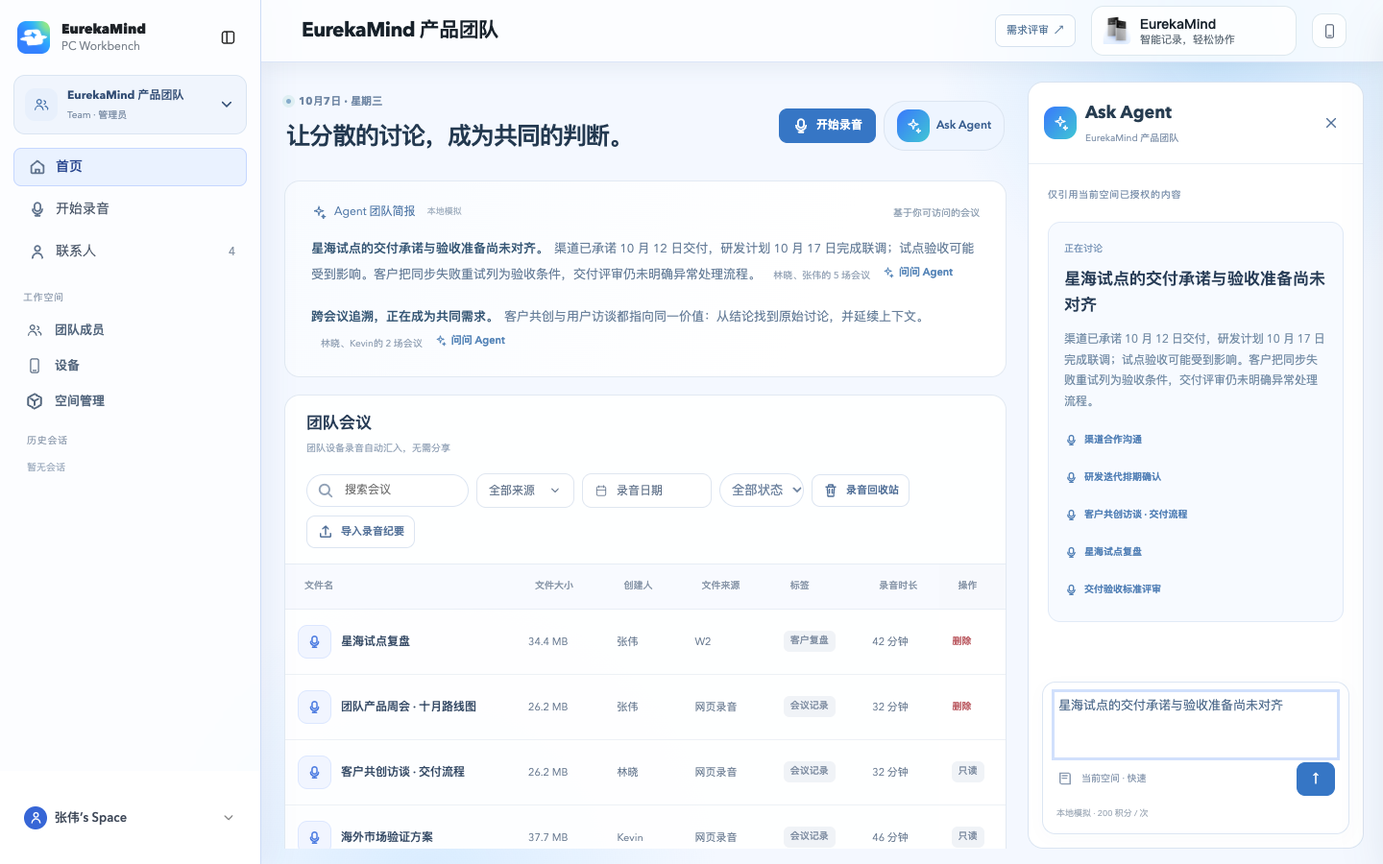
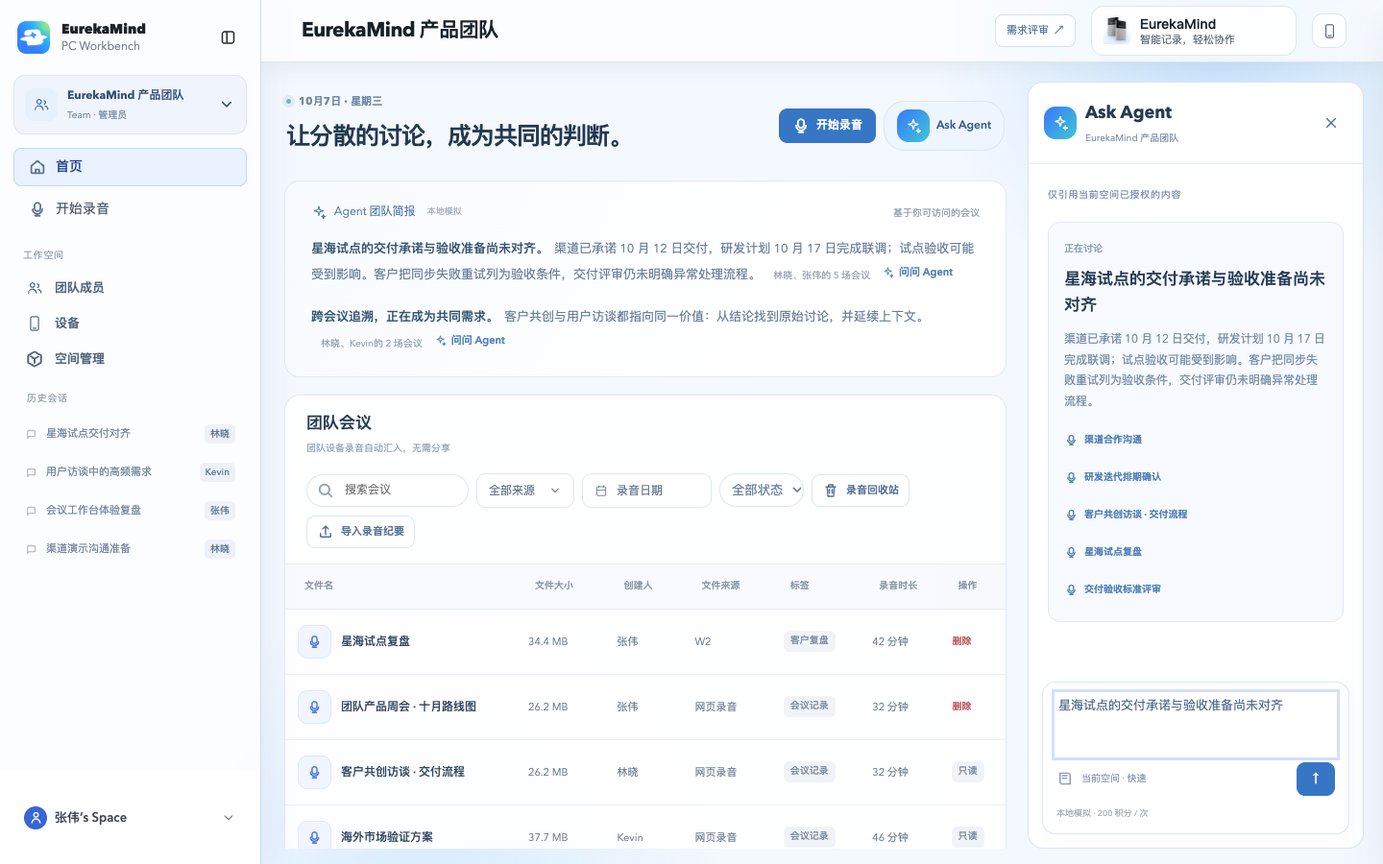
feat: add member-owned team history and remove team contacts entry

Changed region(s): [[0.0, 0.28, 0.0938, 0.4667], [0.0, 0.4978, 0.125, 0.5911], [0.0312, 0.6222, 0.0938, 0.6533]]

diff --git a/src/prototype/one-to-one-reference/assets/workspace-ui.js b/src/prototype/one-to-one-reference/assets/workspace-ui.js
@@ -37,13 +37,13 @@
   function chrome(){
     document.body.dataset.wsType=w().type;
     document.title=`EurekaMind · ${w().name}`;
+    $('[data-contacts-entry]')?.toggleAttribute('hidden',w().type==='team');
     const contactCount=$('[data-contacts-entry] .tree-count');if(contactCount)contactCount.textContent=w().type==='team'?String((w().contacts||[]).length):String(window.ContactsModel?.load('personal','personal').data.contacts.length||6);
     switcher.innerHTML=`<span class="ws-space-avatar">${w().type==='personal'?icon('user'):icon('users')}</span><span class="ws-space-copy"><strong>${esc(w().name)}</strong><small>${w().type==='personal'?'Personal · '+esc(w().plan):'Team · '+(isAdmin()?'管理员':'成员')}</small></span>${icon('chevron')}`;
     switcher.title=`切换工作空间：${w().name}`;
     nav.innerHTML=w().type==='team'?`<div class="ws-nav-label">工作空间</div>${btn('page',icon('users')+'团队成员',page==='members'?'active':'','members')}${btn('page',icon('phone')+'设备',page==='devices'?'active':'','devices')}${isAdmin()?btn('page',icon('task')+'空间管理',['billing','settings','credits','audit'].includes(page)?'active':'','billing'):''}`:'';
     let history=$('#ws-history');if(!history){history=document.createElement('div');history.id='ws-history';nav.after(history);}
-    const ids=new Set(w().type==='team'?M.visible(w(),actor).map(f=>f.id):[]);
-    history.innerHTML=w().type==='team'?`<div class="ws-nav-label">历史会话</div>${w().threads.filter(t=>t.user===actor&&!t.contactId&&(t.files||[]).every(id=>ids.has(id))).slice(0,5).map(t=>btn('history',icon('message')+esc(t.prompt),'',t.id)).join('')||'<p class="ws-muted">暂无会话</p>'}`:'';
+    history.innerHTML=w().type==='team'?`<div class="ws-nav-label">历史会话</div>${M.history(w(),actor).slice(0,8).map(t=>btn('history',`${icon('chat')}<span class="ws-history-title">${esc(t.title||t.prompt)}</span><span class="ws-history-owner">${esc(userName(t.user))}</span>`,activeHistoryId===t.id&&agentOpen?'active':'',t.id,`title="${esc(t.title||t.prompt)} · ${esc(userName(t.user))}" ${activeHistoryId===t.id&&agentOpen?'aria-current="true"':''}`)).join('')||'<p class="ws-muted">暂无会话</p>'}`:'';
     const name=$('#user-card .user-name');if(name)name.textContent=data.account.name+"‘s Space";
   }
   function closeMenu(){menu.hidden=true;switcher.setAttribute('aria-expanded','false');$('#user-card')?.setAttribute('aria-expanded','false');}
@@ -62,7 +62,7 @@
   }
   function show(next='overview'){
     if(editing&&next!==page){confirm('退出编辑？','未保存的内容会丢失。',()=>{editing=false;show(next);});return;}
-    if(next==='contacts'&&w().type==='team')return openContacts();
+    if(next==='contacts'&&w().type==='team')next='overview';
     if(next==='files'&&w().type==='team')next='overview';
     closeMenu();page=next;for(const entry of $$('#home-entry,#start-recording,[data-contacts-entry]')){const active=entry.id==='home-entry'&&next==='overview';entry.classList.toggle('active',active);if(active)entry.setAttribute('aria-current','page');else entry.removeAttribute('aria-current');}if(next!=='detail')selected=null;document.dispatchEvent(new Event('meeting-agent-leave'));$$('[data-main-view]').forEach(el=>{el.hidden=el!==root;el.setAttribute('aria-hidden',String(el!==root));});$('#page-crumb').textContent=w().type==='team'?w().name:'个人工作空间';$('.main').scrollTop=0;root.hidden=false;chrome();render();fit();
   }
@@ -124,7 +124,7 @@
   function settings(){M.govern(w(),actor);return heading('空间设置','名称、成员权限与隐私设置仅作用于当前工作空间。')+managementTabs()+`<form class="ws-surface ws-settings-form" data-ws-form="settings">${field('工作空间名称','name',w().name,'text','required maxlength="40"')}${field('公司所在地区','country',w().country,'text','disabled')}<p class="ws-muted">地区在创建时确定，后续保持不变。</p><div class="ws-info">${icon('users')} 文件默认私有，仅允许在当前工作空间内邀请成员访问。</div><p class="ws-form-error" role="alert"></p><button class="ws-btn primary" type="submit">保存设置</button></form><section class="ws-surface ws-settings-form"><h3>退出工作空间</h3><p>退出后将无法访问此空间。若你是唯一管理员，需要先指定另一位管理员。</p>${btn('leave','退出当前空间','danger')}</section>`;}
   function audit(){M.govern(w(),actor);return heading('活动记录','只记录空间管理操作，不向管理员暴露成员私有文件内容。')+managementTabs()+`<section class="ws-surface"><div class="ws-list">${w().audit.filter(l=>!l.action.match(/文件|私有/)).map(l=>`<div class="ws-list-row"><div><strong>${esc(l.action)}</strong><small>${esc(l.actor)}</small></div><time>${date(l.time)}</time></div>`).join('')||empty('暂无管理活动','创建、邀请、席位与设备变更会显示在这里。')}</div></section>`;}
   function contacts(){return heading('团队联系人','当前工作空间的合作关系与跟进记录。',btn('contact-add','添加联系人','primary'))+`<div class="ws-contact-grid">${(w().contacts||[]).map(c=>`<button class="ws-contact-card" data-ws-action="contact" data-value="${esc(c.id)}"><span class="ws-mini-avatar">${esc(c.name[0])}</span><h3>${esc(c.name)}</h3><small>${esc(c.company)} · ${esc(c.role)}</small><p>${esc(c.summary)}</p><span class="ws-link">查看与跟进 ↗</span></button>`).join('')||empty('暂时没有联系人','添加合作伙伴，建立当前团队独立的关系记录。')}</div>`;}
-  function agent(){const insight=activeInsightId?M.insights(w(),actor).items.find(i=>i.id===activeInsightId):null;return `<aside class="ws-agent" aria-label="Ask Agent"><header><div><span class="ws-agent-mark">${icon('spark')}</span><div><h2>Ask Agent</h2><p>${esc(w().name)}</p></div></div>${btn('agent-close',icon('x'),'ws-icon-button','','aria-label="收起 Agent"')}</header><div class="ws-agent-scroll"><span class="ws-eyebrow">仅引用当前空间已授权的内容</span>${insight?`<div class="ws-agent-insight-context"><span>正在讨论</span><h3>${esc(insight.title)}</h3><p>${esc(insight.description)}</p><div class="ws-agent-insight-sources">${insight.sources.map(e=>btn('file',icon('mic')+esc(e.title),'link',e.fileId)).join('')}</div></div>`:`<h3>${selected?'继续这场会议的工作':'让团队讨论有下一步'}</h3><p>整理关键结论、拆解行动项，或准备下一次沟通。</p><div class="ws-agent-prompts">${['整理待推进的行动项','为下次会议准备简报'].map(t=>btn('prompt',t,'',t)).join('')}</div>`}${w().threads.filter(t=>(!insight||t.prompt.includes(insight.title))&&(!activeHistoryId||t.id===activeHistoryId)&&t.user===actor&&!t.contactId&&(!selected||(t.files||[]).includes(selected))&&(t.files||[]).every(id=>M.visible(w(),actor).some(f=>f.id===id))).slice(0,4).reverse().map(t=>`<div class="ws-chat-user">${esc(t.prompt)}</div><div class="ws-chat-answer">${esc(t.answer)}</div>`).join('')}${answer?`<div class="ws-chat-answer" role="status">${esc(answer)}</div>`:''}</div><form class="ws-composer" data-ws-form="ask"><textarea name="question" aria-label="向团队 Agent 提问" placeholder="输入问题，按 Enter 发送…">${esc(draft)}</textarea><div class="ws-composer-tools"><span>${icon('book')} 当前空间 · 快速</span><button class="ws-btn primary" type="submit" aria-label="发送问题">↑</button></div><small>本地模拟 · 200 积分 / 次</small><p class="ws-form-error" role="alert"></p></form></aside>`;}
+  function agent(){const thread=activeHistoryId?M.history(w(),actor).find(t=>t.id===activeHistoryId):null;const insight=activeInsightId?M.insights(w(),actor).items.find(i=>i.id===activeInsightId):null;return `<aside class="ws-agent" aria-label="Ask Agent"><header><div><span class="ws-agent-mark">${icon('spark')}</span><div><h2>Ask Agent</h2><p>${esc(w().name)}</p></div></div>${btn('agent-close',icon('x'),'ws-icon-button','','aria-label="收起 Agent"')}</header><div class="ws-agent-scroll"><span class="ws-eyebrow">仅引用当前空间已授权的内容</span>${thread?`<div class="ws-agent-history-context"><span class="ws-eyebrow">历史会话</span><h3>${esc(thread.title||thread.prompt)}</h3><p><span class="ws-history-owner">${esc(userName(thread.user))}</span><time>${date(thread.time)}</time></p></div>`:insight?`<div class="ws-agent-insight-context"><span>正在讨论</span><h3>${esc(insight.title)}</h3><p>${esc(insight.description)}</p><div class="ws-agent-insight-sources">${insight.sources.map(e=>btn('file',icon('mic')+esc(e.title),'link',e.fileId)).join('')}</div></div>`:`<h3>${selected?'继续这场会议的工作':'让团队讨论有下一步'}</h3><p>整理关键结论、拆解行动项，或准备下一次沟通。</p><div class="ws-agent-prompts">${['整理待推进的行动项','为下次会议准备简报'].map(t=>btn('prompt',t,'',t)).join('')}</div>`}${(thread?M.conversation(w(),thread.id,actor):M.history(w(),actor).filter(t=>!t.demo&&t.user===actor&&(!insight||t.prompt.includes(insight.title))&&(!selected||(t.files||[]).includes(selected))).slice(0,4).reverse()).map(t=>`<div class="ws-chat-member">${esc(userName(t.user))}${t.user===actor?' · 我':''}</div><div class="ws-chat-user">${esc(t.prompt)}</div><div class="ws-chat-answer">${esc(t.answer)}</div>`).join('')}${answer?`<div class="ws-chat-answer" role="status">${esc(answer)}</div>`:''}</div><form class="ws-composer" data-ws-form="ask"><textarea name="question" aria-label="向团队 Agent 提问" placeholder="输入问题，按 Enter 发送…">${esc(draft)}</textarea><div class="ws-composer-tools"><span>${icon('book')} 当前空间 · 快速</span><button class="ws-btn primary" type="submit" aria-label="发送问题">↑</button></div><small>本地模拟 · 200 积分 / 次</small><p class="ws-form-error" role="alert"></p></form></aside>`;}
   function render(){
     if(w().type==='personal')refreshPersonal();
     let body;try{body=({overview,files,detail,members,devices,billing,credits,settings,audit,contacts}[page]||overview)();}catch(e){body=empty('此页面暂不可访问',esc(e.message),btn('page','返回团队首页','primary','overview'));}
@@ -201,7 +201,7 @@
 
     if(name==='sync'){const result=mutate(()=>M.sync(data,value,actor));render();toast(`已同步至${result.space.name}，${M.teamRecording(result.space,result.file)?'团队成员可直接查看':'新录音仅自己可见'}`);return;}
     if(name==='device-detail'){const d=data.devices.find(d=>d.id===value);modal(esc(d.name),`<dl class="ws-device-detail"><dt>序列号</dt><dd>${esc(d.serial)}</dd><dt>设备型号</dt><dd>${esc(d.model)}</dd><dt>绑定空间</dt><dd>${esc(M.get(data,d.spaceId).name)}</dd><dt>绑定成员</dt><dd>${esc(userName(d.user))}</dd><dt>同步说明</dt><dd>切换界面不会改变设备的录音同步位置。管理员仅可查看设备元数据。</dd></dl>`,btn('close-dialog','关闭'));return;}
-    if(name==='history'){activeInsightId=null;show('overview');activeHistoryId=value;agentOpen=true;draft='';answer='';render();$('.ws-composer textarea')?.focus({preventScroll:true});return;}
+    if(name==='history'){M.getThread(w(),value,actor);activeInsightId=null;show('overview');activeHistoryId=value;agentOpen=true;draft='';answer='';render();$('.ws-composer textarea')?.focus({preventScroll:true});return;}
     if(name==='agent'){activeInsightId=null;activeHistoryId=null;agentOpen=true;answer='';return render();}
     if(name==='agent-close'){agentOpen=false;return page==='detail'?mountMeetingAgent():render();}
     if(name==='prompt'){draft=value;if(page==='detail')mountMeetingAgent();else render();$('.ws-composer textarea')?.focus({preventScroll:true});return;}
@@ -227,7 +227,7 @@
       dialog.close();render();toast(`设备 ${device.model} 已录入并绑定至 ${userName(device.user)}`);return;
     }
     if(kind==='bind')mutate(()=>M.bind(data,v.device,w().id,actor));
-    if(kind==='ask'){const context=activeInsightId?M.insights(w(),actor).items.find(i=>i.id===activeInsightId):null;const question=context&&String(v.question).trim()&&!v.question.includes(context.title)?context.title+'：'+v.question:v.question;const result=mutate(()=>M.ask(w(),question,selected,actor));draft='';answer=result.cost?'':result.answer;activeHistoryId=null;if(page==='detail')mountMeetingAgent();else render();return;}
+    if(kind==='ask'){const context=activeInsightId?M.insights(w(),actor).items.find(i=>i.id===activeInsightId):null;const question=context&&String(v.question).trim()&&!v.question.includes(context.title)?context.title+'：'+v.question:v.question;const result=mutate(()=>M.ask(w(),question,selected,actor,activeHistoryId));draft='';answer=result.cost?'':result.answer;activeHistoryId=activeHistoryId&&result.threadId?result.threadId:activeHistoryId;if(page==='detail')mountMeetingAgent();else render();requestAnimationFrame(()=>{const messages=$('.ws-agent-scroll');if(messages)messages.scrollTop=messages.scrollHeight;});return;}
     if(kind==='contact')mutate(()=>{M.writable(w());(w().contacts||=[]).push({id:M.id('contact'),...v});});
     if(kind==='contact-update')mutate(()=>{M.writable(w());w().contacts.find(c=>c.id===v.id).summary=v.summary;});
     dialog.close();if(page==='detail'&&w().type==='team')openMeeting(selected);else render();toast('已保存');
@@ -235,7 +235,7 @@
   document.addEventListener('click',e=>{const b=e.target.closest('[data-ws-action]');if(!b){if(!menu.hidden&&!menu.contains(e.target))closeMenu();return;}e.preventDefault();action(b.dataset.wsAction,b.dataset.value,b).catch(err=>{const error=dialog.open?$('.ws-form-error',dialog):null;if(error)error.textContent=err.message;else toast(err.message);});});
   document.addEventListener('submit',e=>{const form=e.target.closest('[data-ws-form]');if(!form)return;e.preventDefault();const submitButton=form.querySelector('[type=submit]');if(submitButton?.disabled)return;if(submitButton)submitButton.disabled=true;formAction(form).catch(err=>{$('.ws-form-error',form).textContent=err.message;}).finally(()=>{if(submitButton)submitButton.disabled=false;});});
   document.addEventListener('input',e=>{if(e.target.id==='ws-file-search'){query=e.target.value;listPage=1;const pos=e.target.selectionStart;render();const input=$('#ws-file-search');input.focus({preventScroll:true});input.setSelectionRange(pos,pos);}if(e.target.matches('.ws-composer textarea'))draft=e.target.value;if(e.target.id==='ws-editor')noteDraft=e.target.value;});
-  root.addEventListener('change',e=>{if(e.target.id==='ws-meeting-source'||e.target.id==='ws-meeting-date'||e.target.id==='ws-meeting-status'){if(e.target.id==='ws-meeting-source')sourceFilter=e.target.value;else if(e.target.id==='ws-meeting-date')dateFilter=e.target.value;else statusFilter=e.target.value;listPage=1;render();return;}if(e.target.id==='ws-actor'){activeInsightId=null;actor=e.target.value;selected=null;editing=false;answer='';draft='';agentOpen=false;show('overview');toast('已切换演示视角，内容按此成员的权限展示');}});
+  root.addEventListener('change',e=>{if(e.target.id==='ws-meeting-source'||e.target.id==='ws-meeting-date'||e.target.id==='ws-meeting-status'){if(e.target.id==='ws-meeting-source')sourceFilter=e.target.value;else if(e.target.id==='ws-meeting-date')dateFilter=e.target.value;else statusFilter=e.target.value;listPage=1;render();return;}if(e.target.id==='ws-actor'){activeHistoryId=null;activeInsightId=null;actor=e.target.value;selected=null;editing=false;answer='';draft='';agentOpen=false;show('overview');toast('已切换演示视角，内容按此成员的权限展示');}});
   document.addEventListener('keydown',e=>{if(e.target.matches('.ws-composer textarea')&&e.key==='Enter'&&!e.shiftKey&&!e.isComposing){e.preventDefault();e.target.form.requestSubmit();}});
   document.addEventListener('keydown',e=>{if(e.key==='Escape')closeMenu();});
   window.addEventListener('click',e=>{

diff --git a/src/prototype/one-to-one-reference/assets/workspace-model.js b/src/prototype/one-to-one-reference/assets/workspace-model.js
@@ -129,21 +129,33 @@
     const findings=[...topics.values()].map(group=>group.length===1?group[0]:({...group[0],title:'星海试点的交付承诺与验收准备尚未对齐',description:group.map(i=>i.description).join(''),impact:group.map(i=>i.impact).join(''),next:group.map(i=>i.next).join(''),sources:[...new Map(group.flatMap(i=>i.sources).map(e=>[e.fileId,e])).values()]}));
     return {items:findings,meetings:files.length,members:new Set(files.map(f=>f.owner)).size};
   }
-  function ask(w,prompt,fid,uid=SELF) {
+  function history(w,uid=SELF) {
+    const ids=new Set(visible(w,uid).map(f=>f.id));
+    return (w.threads||[]).filter(t=>!t.contactId&&(t.user===uid||t.visibility==='team')&&(t.files||[]).every(fid=>ids.has(fid))).slice().sort((a,b)=>new Date(String(b.time).replace(' ','T')).getTime()-new Date(String(a.time).replace(' ','T')).getTime());
+  }
+  function getThread(w,tid,uid=SELF) {return history(w,uid).find(t=>t.id===tid)||fail('会话已失效或无权访问，请选择其他会话');}
+  function conversation(w,tid,uid=SELF) {
+    const list=[],seen=new Set();let current=getThread(w,tid,uid);
+    while(current&&!seen.has(current.id)&&list.length<20){list.unshift(current);seen.add(current.id);current=current.parentThreadId?history(w,uid).find(t=>t.id===current.parentThreadId):null;}
+    return list;
+  }
+  function ask(w,prompt,fid,uid=SELF,historyId=null) {
     access(w,uid);writable(w);prompt=String(prompt).trim();if(!prompt)fail('请输入问题');
-    const insight=!fid&&insights(w,uid).items.find(i=>prompt.includes(i.title));
-    if(!fid&&!insight&&/星海试点的交付承诺与验收准备尚未对齐|客户承诺与研发排期相差 5 天|验收标准已明确，异常处理仍未对齐|跨会议追溯，正在成为共同需求/.test(prompt))return {answer:'该团队线索的来源或内容已变化，当前依据不足，请返回首页查看最新线索。本次未扣积分。',cost:0};
-    let files=insight?insight.sources.map(e=>getFile(w,e.fileId,uid)):fid?[getFile(w,fid,uid)]:visible(w,uid);
-    if(!fid&&!insight&&/客户|反馈/.test(prompt))files=files.filter(f=>/客户|访谈|试点|验收/.test(f.title));
-    if(!insight)files=files.slice().sort((a,b)=>String(b.created).localeCompare(String(a.created))).slice(0,3);
+    const previous=historyId?getThread(w,historyId,uid):null;
+    const insight=!previous&&!fid&&insights(w,uid).items.find(i=>prompt.includes(i.title));
+    if(!previous&&!fid&&!insight&&/星海试点的交付承诺与验收准备尚未对齐|客户承诺与研发排期相差 5 天|验收标准已明确，异常处理仍未对齐|跨会议追溯，正在成为共同需求/.test(prompt))return {answer:'该团队线索的来源或内容已变化，当前依据不足，请返回首页查看最新线索。本次未扣积分。',cost:0};
+    let files=previous?(previous.files||[]).map(fid=>getFile(w,fid,uid)):insight?insight.sources.map(e=>getFile(w,e.fileId,uid)):fid?[getFile(w,fid,uid)]:visible(w,uid);
+    if(!previous&&!fid&&!insight&&/客户|反馈/.test(prompt))files=files.filter(f=>/客户|访谈|试点|验收/.test(f.title));
+    if(!previous&&!insight)files=files.slice().sort((a,b)=>String(b.created).localeCompare(String(a.created))).slice(0,3);
     if(!files.length)return {answer:'当前没有可引用的相关会议。请先录音、导入纪要，或调整问题。',cost:0};
     if(w.credits.total-w.credits.used<200)fail('AI 积分不足，请联系管理员补充');
     const excerpts=files.map((f,i)=>`${i+1}. 「${f.title}」\n${f.summary.split('\n').filter(Boolean)[0].slice(0,300)}`).join('\n\n');
     const label=/对比|决策/.test(prompt)?'会议决策对照':/客户|反馈/.test(prompt)?'客户反馈摘要':/简报|总结/.test(prompt)?'团队会议简报':'会议上下文与下一步';
     const next=/对比|决策/.test(prompt)?'以上按来源并列展示会议结论；未在纪要中明确的差异与负责人，需要回到原录音确认。':/客户|反馈/.test(prompt)?'建议在下次沟通前，逐项确认客户提出的问题、对应方案和验收口径。':'建议围绕上述结论，确认负责人、交付范围与仍待澄清的问题。';
-    const answer=insight?`${insight.label}\n${insight.title}\n\n${insight.description}\n\n会议依据\n${insight.sources.map(e=>`「${e.title}」 · ${w.members.find(m=>m.id===e.owner)?.name||e.owner}\n${e.quote}`).join("\n\n")}\n\n建议核实\n${insight.next}\n\n以上为跨会议线索，不代表已确认风险或已通知成员。仅引用当前授权资料；本地模拟。`:`${label}\n\n${excerpts}\n\n${next}\n\n引用 ${files.length} 份已授权资料；此结果为本地模拟。`;
+    const answer=previous?`接续「${previous.title||previous.prompt}」\n\n关于「${prompt}」，仍基于原会话的 ${files.length} 场会议：\n\n${excerpts}\n\n${next}\n\n本地模拟 · 未通知成员或创建任务。`:insight?`${insight.label}\n${insight.title}\n\n${insight.description}\n\n会议依据\n${insight.sources.map(e=>`「${e.title}」 · ${w.members.find(m=>m.id===e.owner)?.name||e.owner}\n${e.quote}`).join("\n\n")}\n\n建议核实\n${insight.next}\n\n以上为跨会议线索，不代表已确认风险或已通知成员。仅引用当前授权资料；本地模拟。`:`${label}\n\n${excerpts}\n\n${next}\n\n引用 ${files.length} 份已授权资料；此结果为本地模拟。`;
     w.credits.used+=200;w.credits.logs.unshift({id:id('usage'),user:uid,task:prompt.slice(0,80),amount:200,time:stamp()});
-    w.threads.unshift({id:id('chat'),user:uid,prompt,answer,time:stamp(),files:files.map(f=>f.id)});return {answer,cost:200};
+    const thread={id:id('chat'),user:uid,prompt,answer,time:stamp(),files:files.map(f=>f.id),visibility:'private',...(previous?{parentThreadId:previous.id}: {})};
+    w.threads.unshift(thread);return {answer,cost:200,threadId:thread.id};
   }
   function acceptInvite(s,iid) {const i=s.invitations.find(i=>i.id===iid&&i.status==='pending')||fail('邀请已失效或已处理');const w=baseTeam(id('team'),i.teamName,[person('wang','王晨','wang.chen@eureka.example','admin'),person(SELF,s.account.name,s.account.email)],3);w.files=[file(id('file'),'欢迎加入 · 研究项目说明','wang',[SELF])];s.spaces.push(w);i.status='accepted';s.activeId=w.id;return w;}
   // Versioned, additive migration: never replace user recordings or edited contacts.
@@ -195,6 +207,20 @@
         }
         w.teamDeviceVisibilityVersion=1;
       }
+      if(w.id==='team-eureka'&&!w.memberHistoryVersion){
+        const demos=[
+          ['delivery','lin','星海试点交付对齐','梳理星海试点里客户承诺与验收准备的关键问题。',['team-demo-sales','team-demo-pilot'],'2026-10-07 09:40','渠道沟通承诺 10 月 12 日交付；试点复盘强调同步失败重试属于验收条件。下一步应由渠道与交付共同确认演示范围、重试案例和验收清单。'],
+          ['research','kevin','用户访谈中的高频需求','把用户访谈和交互评审串起来，找出值得优先解决的问题。',['team-demo-research','team-demo-design'],'2026-10-07 09:05','两场讨论都强调上下文连续性：用户希望从结论回到录音原文，并继续追问；交互评审确认 Agent 在当前页面展开，小屏也应保留输入区。建议优先验证会议内追问与原位编辑链路。'],
+          ['review',SELF,'会议工作台体验复盘','汇总试点复盘和交互评审，整理下一轮体验验证重点。',['team-demo-pilot','team-demo-design'],'2026-10-06 17:20','试点关注交付与验收口径，交互评审关注正文编辑与页面内 Agent。下一轮验证可以覆盖：会议正文原位编辑、设备同步异常重试、小屏连续提问。上述建议尚未创建任务。'],
+          ['partner','lin','渠道演示沟通准备','根据渠道合作沟通，整理下一次演示前需要确认的内容。',['team-demo-sales'],'2026-10-06 16:10','先统一真实客户会议的演示脚本与试点范围，再确认设备同步、失败重试能力的交付承诺。报价应在交付范围确认后讨论。']
+        ];
+        for(const [key,user,title,prompt,files,time,answer] of demos){
+          const tid='team-history-'+key;
+          // Shared sample conversations only cite known team-visible device recordings.
+          if(!w.threads.some(t=>t.id===tid)&&files.every(fid=>w.files.some(f=>f.id===fid&&!f.deleted&&teamRecording(w,f))))w.threads.push({id:tid,user,title,prompt,answer:answer+'\n\n本地模拟 · 基于团队会议记录，未连接 AI 服务。',files,time,visibility:'team',demo:true});
+        }
+        w.memberHistoryVersion=1;
+      }
       w.files.forEach((f,i)=>{const defaults={size:(f.duration*0.82).toFixed(1)+' MB',creator:w.members.find(m=>m.id===f.owner)?.name||'已移除成员',status:'已总结',tags:['会议记录'],updated:f.created,detail:{}};for(const [k,v]of Object.entries(defaults))if(f[k]==null)f[k]=v;});
     }
     return s;
@@ -214,5 +240,5 @@
     w.credits.used+=200;w.credits.logs.unshift({id:id('usage'),user:uid,task:prompt.slice(0,80),amount:200,time:stamp()});w.threads.unshift({id:id('chat'),user:uid,prompt,answer,time:stamp(),contactId:cid,files:[]});return answer;
   }
   function load(storage) {try {const s=JSON.parse(storage.getItem(KEY));if(s?.version===2&&Array.isArray(s.spaces)&&s.spaces.some(w=>w.id==='personal'))return enrich(s);}catch{/* recover demo state */}return enrich(seed());}
-  global.WorkspaceModel={KEY,SELF,id,clone,seed:()=>enrich(seed()),enrich,insights,saveDetail,saveContacts,askContact,purge,get,member,admin,usedSeats,writable,govern,teamRecording,visible,getFile,price,create,invite,memberAction,seats,advanceCycle,addFile,edit,share,trash,exportFile,importFile,registerDevice,bind,sync,ask,acceptInvite,load,log};
+  global.WorkspaceModel={KEY,SELF,id,clone,seed:()=>enrich(seed()),enrich,insights,history,getThread,conversation,saveDetail,saveContacts,askContact,purge,get,member,admin,usedSeats,writable,govern,teamRecording,visible,getFile,price,create,invite,memberAction,seats,advanceCycle,addFile,edit,share,trash,exportFile,importFile,registerDevice,bind,sync,ask,acceptInvite,load,log};
 })(typeof window==='undefined'?globalThis:window);

diff --git a/tests/e2e/team-recording-parity.spec.ts b/tests/e2e/team-recording-parity.spec.ts
@@ -43,18 +43,33 @@ test('team recordings reuse six tabs, inline editing, player, sharing, export an
   await act(page,'recycle').click();await act(page,'file','team-review').click();await expect(page.locator('#md-content .md-prose')).toContainText('团队迭代专属结论');
   await switchTo(page,'personal');await expect(page.locator('#meeting-list')).not.toContainText('团队迭代专属');expect(errors).toEqual([]);
 });
-test('team contacts reuse all relationship tabs, notes, followups and scoped Agent',async({page})=>{
-  const errors:string[]=[];page.on('pageerror',e=>errors.push(e.message));await page.locator('[data-contacts-entry]').click();
-  await expect(page.locator('.contacts-person-card')).toHaveCount(4);await expect(page.locator('#contacts-root')).not.toContainText('John Chen');
-  await page.locator('[data-contact-action=person][data-value=c-team-1]').click();
-  for(const name of ['概览','时间线','承诺','主题','记忆']){await page.getByRole('tab',{name,exact:true}).click();await expect(page.locator('.contacts-main')).not.toContainText('德国经销商');}
-  await page.locator('[data-contact-action=note]').click();await page.locator('[data-contact-form=note] textarea').fill('仅团队空间的客户补充信息');await page.locator('[data-contact-form=note] button[type=submit]').click();
-  await expect(page.locator('.contacts-main')).toContainText('仅团队空间');
-  await page.locator('[data-contact-action=followup]').first().click();await page.locator('[data-contact-form=followup] [name=title]').fill('确认试点反馈');await page.locator('[data-contact-form=followup] button[type=submit]').click();await expect(page.locator('.contacts-main')).toContainText('确认试点反馈');
-  await page.locator('.contacts-xiaozhi-entry').click();await page.locator('[data-contact-action=ask]').filter({hasText:'准备下一次'}).click();await expect(page.locator('.contacts-xiaozhi-answer')).toContainText('陈明');await expect(page.locator('.contacts-xiaozhi-answer')).not.toContainText('德国经销商');
-  for(const [width,height] of [[1920,1080],[1366,768],[1280,650]]){await page.setViewportSize({width,height});await expect(page.locator('[data-contact-xiaozhi-input]')).toBeInViewport({ratio:1});expect(await page.locator('.main').evaluate(el=>el.scrollWidth-el.clientWidth)).toBeLessThan(3);}
-  await switchTo(page,'team-design');await page.locator('[data-contacts-entry]').click();await expect(page.locator('.contacts-person-card')).toHaveCount(0);
-  await switchTo(page,'personal');await page.locator('[data-contacts-entry]').click();await expect(page.locator('#contacts-root')).toContainText('John Chen');await expect(page.locator('#contacts-root')).not.toContainText('仅团队空间');expect(errors).toEqual([]);
+test('team hides contacts while personal contacts remain available',async({page})=>{
+  await expect(page.locator('[data-contacts-entry]')).toBeHidden();
+  await page.evaluate(()=>{(window as unknown as {EurekaSpaces:{open:(page:string)=>void}}).EurekaSpaces.open('contacts');});
+  await expect(page.locator('#ws-view')).toBeVisible();await expect(page.locator('#contacts-root')).toBeHidden();
+  await switchTo(page,'team-design');await expect(page.locator('[data-contacts-entry]')).toBeHidden();
+  await switchTo(page,'personal');await expect(page.locator('[data-contacts-entry]')).toBeVisible();
+  await page.locator('[data-contacts-entry]').click();await expect(page.locator('#contacts-root')).toContainText('John Chen');
+  await page.locator('.contacts-xiaozhi-entry').click();await expect(page.locator('#contacts-xiaozhi-rail')).toBeVisible();
+});
+test('member history opens in place with ownership, preserves context and survives reload',async({page})=>{
+  const errors:string[]=[];page.on('pageerror',e=>errors.push(e.message));
+  await expect(page.locator('#ws-history [data-ws-action=history]')).toHaveCount(4);
+  await expect(page.locator('#ws-history')).toContainText('林晓');await expect(page.locator('#ws-history')).toContainText('Kevin');await expect(page.locator('#ws-history')).toContainText('张伟');
+  const item=page.locator('#ws-history [data-value=team-history-research]');await item.click();
+  await expect(item).toHaveAttribute('aria-current','true');await expect(page.locator('.ws-agent-history-context')).toContainText('Kevin');
+  await expect(page.locator('.ws-chat-user')).toHaveText('把用户访谈和交互评审串起来，找出值得优先解决的问题。');
+  await expect(page.locator('.ws-chat-answer')).toContainText('上下文连续性');
+  if(process.env.PRD_CAPTURE){await page.setViewportSize({width:1440,height:900});await expect(page.locator('#ws-toast')).toBeHidden();await page.screenshot({path:'src/prototype/prd/images/team-history-agent.png'});}
+  for(const [width,height] of [[1920,1080],[1366,768],[1280,650]]){await page.setViewportSize({width,height});await expect(page.locator('.ws-composer textarea')).toBeInViewport({ratio:1});await expect(page.locator('[aria-label="收起 Agent"]')).toBeInViewport({ratio:1});expect(await page.locator('.main').evaluate(el=>el.scrollWidth-el.clientWidth)).toBeLessThan(3);}
+  await page.locator('.ws-composer textarea').fill('补充下一轮验证重点');await page.locator('.ws-composer button[type=submit]').click();
+  await expect(page.locator('.ws-chat-user')).toHaveCount(2);await expect(page.locator('.ws-chat-answer').last()).toContainText('语音记录用户访谈');await expect(page.locator('.ws-chat-answer').last()).not.toContainText('星海试点');
+  await expect(page.locator('.ws-agent-history-context .ws-history-owner')).toHaveText('张伟');
+  await expect(page.locator('#ws-history [data-value=team-history-research] .ws-history-owner')).toHaveText('Kevin');
+  await act(page,'agent-close').click();await page.reload();await page.locator('#ws-history button').filter({hasText:'补充下一轮验证重点'}).click();await expect(page.locator('.ws-chat-user')).toHaveCount(2);
+  await page.locator('#ws-actor').selectOption('lin');await expect(page.locator('#ws-history')).not.toContainText('补充下一轮验证重点');await expect(page.locator('#ws-history')).toContainText('用户访谈中的高频需求');
+  await switchTo(page,'team-design');await expect(page.locator('#ws-history')).toContainText('暂无会话');
+  await switchTo(page,'personal');await expect(page.locator('#ws-history')).toBeEmpty();await expect(page.locator('[data-contacts-entry]')).toBeVisible();expect(errors).toEqual([]);
 });
 test('team recording pause, resume, mark and finish save to the originating workspace',async({page})=>{
   await act(page,'record').click();await page.locator('#ws-dialog [name=title]').fill('团队录音链路验证');await page.locator('#ws-dialog button[type=submit]').click();

diff --git a/src/prototype/one-to-one-reference/assets/workspace-ui.css b/src/prototype/one-to-one-reference/assets/workspace-ui.css
@@ -57,3 +57,17 @@ html[data-sidebar-collapsed=true] .ws-space-copy,html[data-sidebar-collapsed=tru
 @media(max-width:800px){.ws-team-brief.ws-meeting-intelligence{padding:20px}.ws-team-brief .ws-intelligence-top{flex-wrap:wrap;gap:8px}.ws-brief-paragraph{font-size:13px}}
 
 .ws-brief-paragraph .ws-brief-attribution{display:inline;margin:0 0 0 10px;line-height:inherit}.ws-brief-attribution>span{white-space:nowrap}.ws-brief-paragraph .ws-brief-ask{display:inline-flex;vertical-align:baseline;margin-left:12px;padding:0;min-height:0;line-height:inherit;white-space:nowrap}.ws-brief-paragraph .ws-brief-ask .ws-icon{align-self:center}
+
+/* Team history follows the personal sidebar density; ownership remains visible. */
+body[data-ws-type=team] [data-contacts-entry],body[data-ws-type=team] .sidebar-quick-nav>.knowledge-tree-leaf-row:has([data-contacts-entry]){display:none!important}
+#ws-history>.ws-btn{gap:8px;padding:10px 8px;border-radius:8px;min-width:0;text-align:left}
+#ws-history>.ws-btn:hover,#ws-history>.ws-btn.active{background:#eaf1ff;color:#365e99}
+#ws-history>.ws-btn:focus-visible{outline:2px solid #6394dd;outline-offset:2px}
+#ws-history .ws-icon{width:14px;height:14px;flex-shrink:0}
+.ws-history-title{flex:1;min-width:0;overflow:hidden;text-overflow:ellipsis;white-space:nowrap}
+.ws-history-owner{display:inline-block;flex-shrink:0;background:#edf2f8;color:#637b99;border-radius:5px;padding:3px 6px;font-size:10px;line-height:1.4;font-weight:500;white-space:nowrap}
+.ws-agent-history-context{margin:16px 0 22px}
+.ws-agent-history-context h3{overflow-wrap:anywhere;line-height:1.5}
+.ws-agent-history-context p{display:flex;gap:10px;align-items:center;color:#8b9aaf;font-size:10px}
+.ws-chat-member{font-size:10px;color:#8b9aaf;margin:20px 0 6px}
+.ws-chat-member+.ws-chat-user{margin-top:0}

diff --git a/tests/e2e/prd-review.spec.ts b/tests/e2e/prd-review.spec.ts
@@ -73,6 +73,6 @@ test('capture current prototype illustrations for the PRD',async({page})=>{
   await page.locator('#view-panorama').click();await expect(page.locator('#md-content')).toBeVisible();await page.screenshot({path:`${folder}/meeting.png`});
   await page.locator('[data-contacts-entry]').click();await page.locator('.contacts-xiaozhi-entry').click();await expect(page.locator('#contacts-xiaozhi-rail')).toBeVisible();await page.screenshot({path:`${folder}/contacts.png`});
   await page.locator('#ws-switcher').click();await page.locator('#ws-menu [data-ws-action=switch][data-value=team-eureka]').click();await expect(page.locator('#ws-file-search')).toBeVisible();await expect(page.locator('#ws-toast')).toBeHidden();await page.screenshot({path:`${folder}/team.png`});
-  await page.locator('[data-contacts-entry]').click();await page.locator('.contacts-xiaozhi-entry').click();await page.screenshot({path:`${folder}/team-contacts.png`});
+  await page.locator('#ws-history [data-value=team-history-research]').click();await page.screenshot({path:`${folder}/team-history-agent.png`});
   await page.locator('[data-ws-action=page][data-value=billing]').filter({visible:true}).first().click();await expect(page.locator('.ws-plan-amount')).toBeVisible();await page.screenshot({path:`${folder}/billing.png`});
 });

diff --git a/src/prototype/one-to-one-reference/team-only-app.html b/src/prototype/one-to-one-reference/team-only-app.html
@@ -5303,8 +5303,8 @@
   <script src="assets/workspace-sidebar.js"></script>
   <script src="assets/meeting-detail.js?v=8"></script>
   <script src="assets/meeting-filters.js?v=2"></script>
-  <link rel="stylesheet" href="assets/workspace-ui.css?v=8" />
-  <script src="assets/workspace-model.js?v=8"></script>
-  <script src="assets/workspace-ui.js?v=8"></script>
+  <link rel="stylesheet" href="assets/workspace-ui.css?v=9" />
+  <script src="assets/workspace-model.js?v=9"></script>
+  <script src="assets/workspace-ui.js?v=9"></script>
 </body>
 </html>

diff --git a/README.md b/README.md
@@ -48,7 +48,7 @@ npm run test:e2e    # Playwright 浏览器测试（需先安装依赖）
 - 工作空间邀请：接受「增长研究小组」邀请后，新增一个独立团队。
 - 创建团队：方案 → 空间信息/席位/周期 → 模拟支付（支持失败重试）→ 开通/邀请成员。
 
-团队首页围绕会议展开：连续的 Agent 团队简报（内容与数量由实际发现决定，同一议题合并叙述）、可核对的会议原文与完整会议列表。不展示个人日程、待办、灵感、记账和全部闪念，也不提供独立「团队文件」或通用文件管理入口。团队会议保留创建人，移除重复的创建成员列及列表导出/分享入口，复用六页签详情、播放器、原位编辑、导出、成员分享、回收站和页面内 Agent。联系人复用完整关系档案、备注、跟进与 Agent。默认产品团队有 12 条录音（张伟视角可见 11 条）及 4 位联系人；旧数据增量补齐，新建团队保持空态。
+团队首页围绕会议展开：连续的 Agent 团队简报（内容与数量由实际发现决定，同一议题合并叙述）、可核对的会议原文与完整会议列表。不展示个人日程、待办、灵感、记账和全部闪念，也不提供独立「团队文件」或通用文件管理入口。团队会议保留创建人，移除重复的创建成员列及列表导出/分享入口，复用六页签详情、播放器、原位编辑、导出、成员分享、回收站和页面内 Agent。团队不提供联系人入口，个人联系人完整保留。侧栏历史会话模拟林晓、Kevin、张伟的 4 条会话，标注成员归属，右侧打开并可接续原会议上下文。明确团队可见的会话仍逐条校验来源；旧私有会话不开放，续聊归当前成员。默认产品团队有 12 条录音（张伟视角可见 11 条）；旧数据增量补齐，新建团队保持空态。
 
 Team 只使用一种 Unlimited 席位；邀请占席，移除成员释放席位但不自动减账单；加席立即生效，减席与周期切换安排到下一账期，可通过「模拟下一账期」验证。管理员可以管理成员与设备元数据，但不会获得成员私有录音的访问权。设备支持手动录入 SN、型号并绑定成员：管理员可选团队有效成员，普通成员仅本人；重复 SN 拒绝，长数字与前导零按文本保留。原设备申请 / 发放入口已替换，历史设备保留。已有本人设备可模拟 App 重新绑定，切换空间不会改变同步目标。跨空间资料通过导出/导入 JSON 创建独立私有副本，兼容原会议详情导出的演示 JSON。
 
